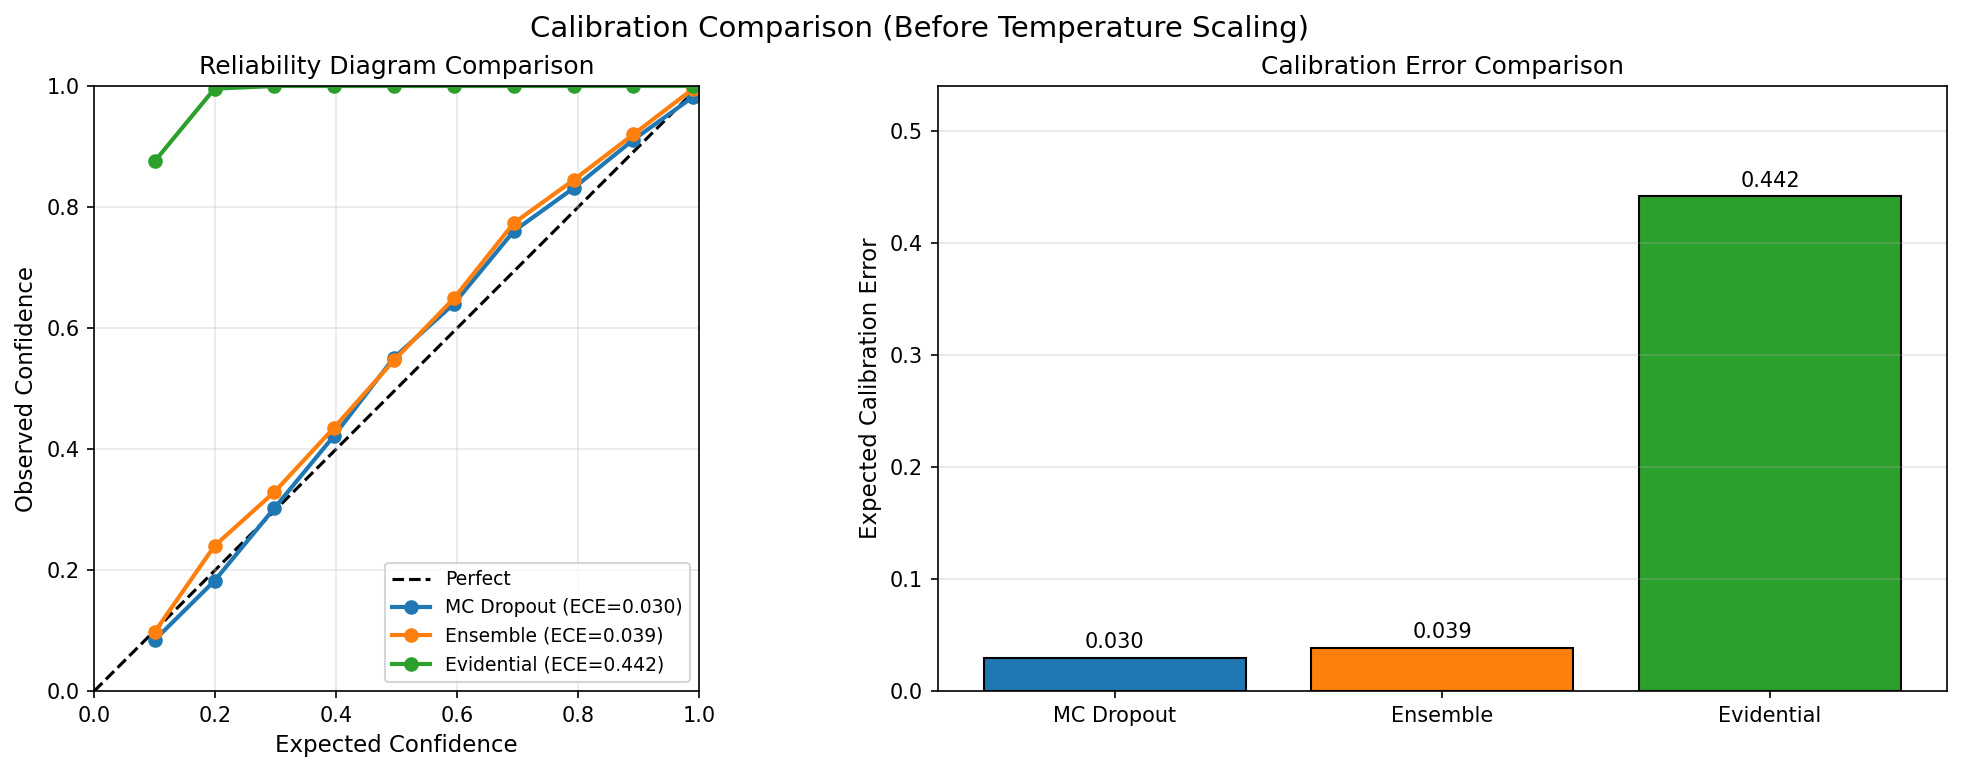
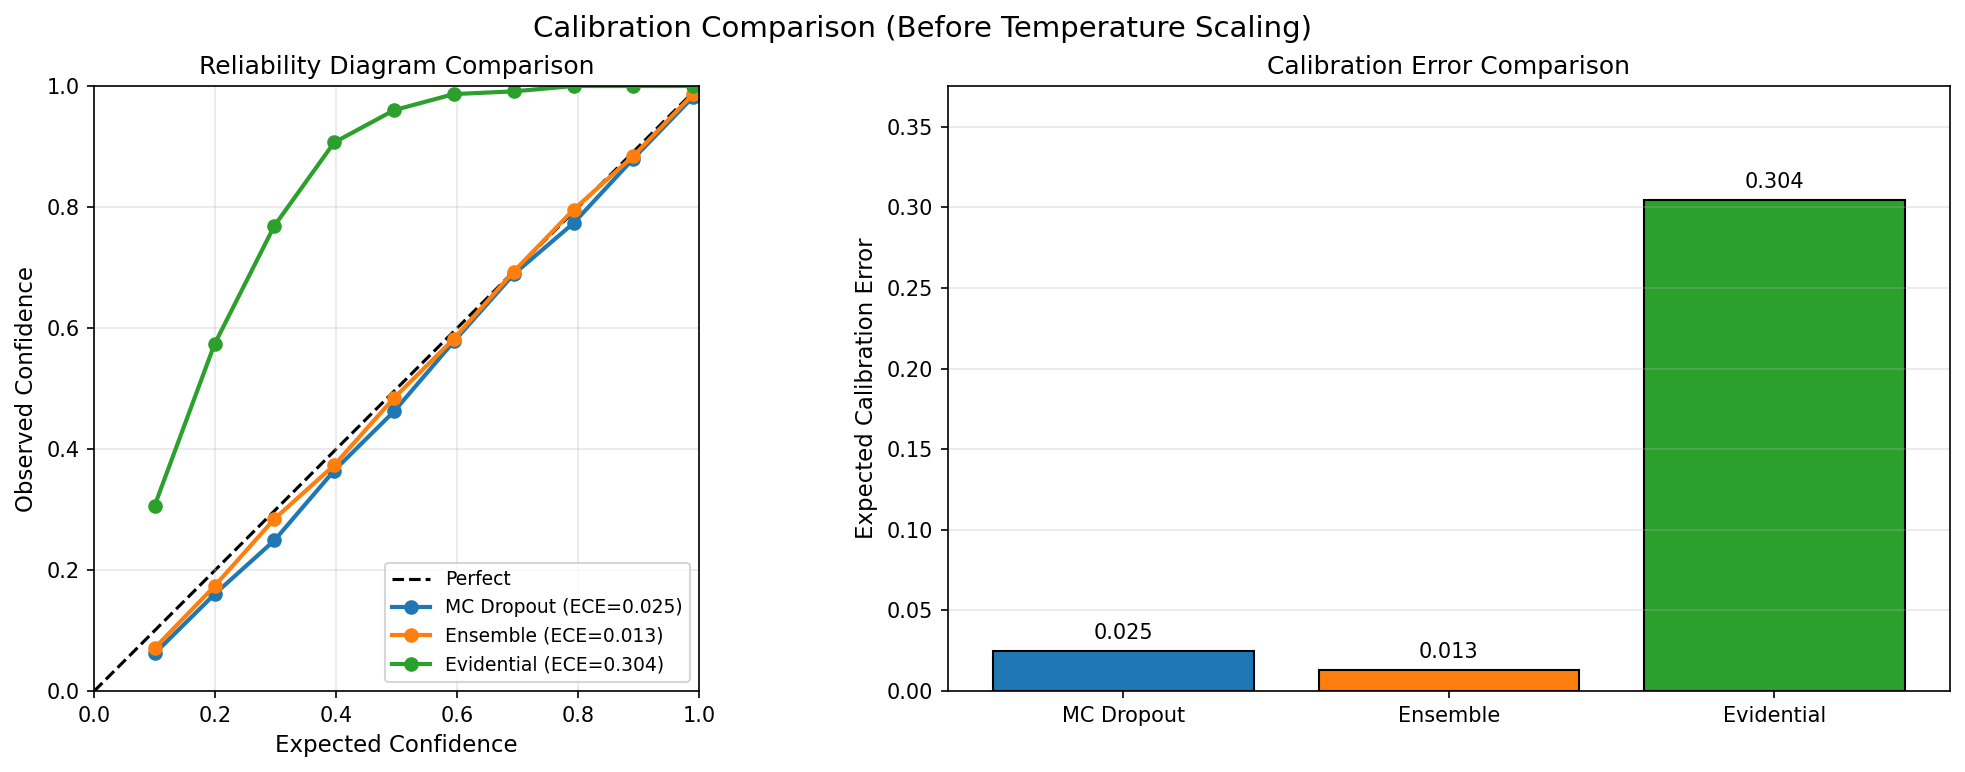
fix: revive dead variance heads and repair the example scripts
Checking every example end to end turned up one regression I introduced and two
pre-existing bugs. All 11 examples now run clean, with no NaN/inf and no model
sitting worse than the mean predictor.

Regression (mine, from the previous commit):
- simple_active_learning.py re-initialized the model each round but still
  trained only 50 epochs, so it never converged. RMSE bounced 2.31/2.15/3.19/
  2.44/... and finished at 2.15 -- worse than the 2.13 mean-predictor baseline.
  Now uses "rich" features and 400 epochs: 1.96 -> 1.19, monotone. It also
  prints the baseline and warns if it fails to beat it.

Dead variance heads (jnp.clip is an absorbing state):
- MPNN/GAT/GraphTransformer bounded log_var with jnp.clip(log_var, -4.6, 4.6).
  A hard clip has exactly zero gradient outside its range, so a saturated
  variance head can never recover. MPNN fell in completely: 100% of molecules
  pinned at exp(4.6)=99.484, var_head gradient exactly 0.0, and mpnn_demo
  printed an identical std dev of 9.974 for every molecule.

  Mechanism: on unnormalized ESOL labels the initial train MSE is ~93, so the
  Gaussian NLL correctly wants a large variance; Adam overshoots raw log_var to
  ~48 within 40 steps. By the time the fit improves and the correct log_var has
  fallen to ~1.7, the head is stuck forever.

  Replaced with a leaky clip in the new molax/models/bounds.py -- identity
  inside the range, small constant slope outside. tanh was tried first and is
[…]

diff --git a/tests/test_log_var_bound.py b/tests/test_log_var_bound.py
@@ -1,0 +1,127 @@
+"""Regression tests for the log-variance bound in the edge-aware models.
+
+MPNN, GAT and GraphTransformer bound `log_var` so predicted variance stays in
+[0.01, 100]. That bound used to be `jnp.clip`, which has *exactly zero*
+gradient outside its range: once the variance head saturated it received no
+gradient and could never recover. In practice MPNN drove 100% of molecules to
+the cap (variance 99.484 for every molecule, var_head gradient 0.0), leaving
+the uncertainty output constant and useless.
+
+The bound is now a leaky clip (see molax/models/bounds.py): identity inside the
+range, small constant slope outside, so a saturated head always recovers.
+"""
+
+import flax.nnx as nnx
+import jax.numpy as jnp
+import pytest
+
+from molax.models.bounds import LOG_VAR_BOUND, LOG_VAR_LEAK, bound_log_var
+from molax.models.gat import GATConfig, UncertaintyGAT
+from molax.models.graph_transformer import (
+    GraphTransformerConfig,
+    UncertaintyGraphTransformer,
+)
+from molax.models.mpnn import MPNNConfig, UncertaintyMPNN
+from molax.utils.data import batch_graphs, smiles_to_jraph
+
+SMILES = ["CCO", "c1ccccc1", "CC(=O)Oc1ccccc1C(=O)O", "CN1C=NC2=C1C(=O)N(C)C(=O)N2C"]
+
+MODELS = [
+    ("mpnn", UncertaintyMPNN, MPNNConfig),
+    ("gat", UncertaintyGAT, GATConfig),
+    ("graph_transformer", UncertaintyGraphTransformer, GraphTransformerConfig),
+]
+
+
+@pytest.fixture
+def graphs():
+    return batch_graphs([smiles_to_jraph(s) for s in SMILES])
+
+
+def _build(model_cls, config_cls):
+    config = config_cls(
+        node_features=6,
+        edge_features=1,
+        hidden_features=[16, 16],
+        out_features=1,
+        dropout_rate=0.1,
+    )
+    return model_cls(config, rngs=nnx.Rngs(0))
+
+
+@pytest.mark.parametrize("name,model_cls,config_cls", MODELS)
+def test_variance_stays_in_range(name, model_cls, config_cls, graphs):
+    """The bound must still hold -- variance in [exp(-B), exp(B)]."""
+    model = _build(model_cls, config_cls)
+    _, var = model(graphs, training=False)
+
+    # The leak allows a small, bounded overshoot beyond exp(+/-LOG_VAR_BOUND);
+    # what matters is that variance stays positive, finite and near the range.
+    assert jnp.all(var > 0.0)
+    assert jnp.all(jnp.isfinite(var))
+    assert jnp.all(var < jnp.exp(LOG_VAR_BOUND) * 10)
+
+
+@pytest.mark.parametrize("name,model_cls,config_cls", MODELS)
+def test_variance_head_gradient_survives_saturation(
+    name, model_cls, config_cls, graphs
+):
+    """A saturated variance head must still receive gradient.
+
+    Drive the head far past the bound by inflating its bias, then check the
+    gradient is non-zero. With the old jnp.clip this was exactly 0.0 and the
+    head was permanently dead.
+    """
+    model = _build(model_cls, config_cls)
+
+    # Push raw log_var to ~10x the bound: deep into saturation.
+    model.var_head.bias[...] = jnp.full_like(
+        model.var_head.bias[...], LOG_VAR_BOUND * 10
+    )
+
+    def loss_fn(model):
+        mean, var = model(graphs, training=False)
+        mean, var = mean.squeeze(-1), var.squeeze(-1)
+        targets = jnp.zeros_like(mean)
+        return jnp.mean(
+            0.5 * (jnp.log(var + 1e-6) + (targets - mean) ** 2 / (var + 1e-6))
+        )
+
+    _, grads = nnx.value_and_grad(loss_fn)(model)
+    grad_magnitude = float(jnp.abs(grads.var_head.kernel[...]).sum())
+
+    assert jnp.isfinite(grad_magnitude)
+    assert grad_magnitude > 0.0, (
+        f"{name}: variance head gradient is exactly zero when saturated -- "
+        "the head can never recover (the jnp.clip regression)"
+    )
+
+
+@pytest.mark.parametrize("name,model_cls,config_cls", MODELS)
+def test_variance_is_not_constant_across_molecules(name, model_cls, config_cls, graphs):
+    """Predicted variance must vary by molecule, not collapse to one value."""
+    model = _build(model_cls, config_cls)
+    _, var = model(graphs, training=False)
+
+    real = var.squeeze(-1)[: len(SMILES)]  # drop the padding graph
+    assert float(jnp.std(real)) > 0.0, (
+        f"{name}: identical predicted variance for every molecule"
+    )
+
+
+def test_bound_is_exact_identity_inside_range():
+    """Well-scaled log_var must pass through completely untouched."""
+    inside = jnp.array([-4.5, -1.0, 0.0, 1.0, 4.5])
+    assert jnp.allclose(bound_log_var(inside), inside)
+
+
+def test_bound_is_monotone_and_leaky_outside_range():
+    """Outside the range the bound must keep a small non-zero slope."""
+    big = jnp.array([LOG_VAR_BOUND * 10])
+    expected = LOG_VAR_BOUND + LOG_VAR_LEAK * (LOG_VAR_BOUND * 10 - LOG_VAR_BOUND)
+    assert jnp.allclose(bound_log_var(big), expected)
+
+    # strictly increasing, so gradient never flips sign
+    xs = jnp.linspace(-50.0, 50.0, 201)
+    ys = bound_log_var(xs)
+    assert jnp.all(jnp.diff(ys) > 0)

diff --git a/examples/simple_active_learning.py b/examples/simple_active_learning.py
@@ -7,6 +7,12 @@ Protocol note: the model is re-initialized at the start of every acquisition
 round. Warm-starting one model across rounds would give later rounds a larger
 cumulative training budget than earlier ones, so the reported RMSE would
 improve partly because of extra gradient steps rather than extra data.
+
+Two consequences of doing that correctly: each round must train to convergence
+from scratch (N_EPOCHS=400, not 50 -- at 50 a fresh model does not even reach
+the mean-predictor baseline), and the "rich" featurizer is required, because
+with the 6-dim default this model plateaus at RMSE ~2.00 no matter how much
+data it is given.
 """
 
 import time
@@ -24,7 +30,8 @@ from molax.utils.data import MolecularDataset
 
 # Configuration
 DATASET_PATH = Path(__file__).parent.parent / "datasets" / "esol.csv"
-N_EPOCHS = 50
+FEATURES = "rich"  # the 6-dim default does not improve with more data
+N_EPOCHS = 400  # a freshly initialized model needs this to converge
 LEARNING_RATE = 1e-3
 INITIAL_POOL_FRACTION = 0.05
 SAMPLES_PER_ITERATION = 50
@@ -36,7 +43,7 @@ print("=" * 60)
 print(f"JAX backend: {jax.default_backend()}")
 
 # Load dataset
-dataset = MolecularDataset(DATASET_PATH)
+dataset = MolecularDataset(DATASET_PATH, features=FEATURES)
 train_data, test_data = dataset.split(test_size=0.2, seed=42)
 print(f"Train: {len(train_data)}, Test: {len(test_data)}")
 
@@ -121,6 +128,13 @@ pool_mask = ~labeled_mask
 
 print(f"\nInitial: {int(labeled_mask.sum())} labeled, {int(pool_mask.sum())} pool")
 
+# The number every iteration has to beat. If RMSE sits above this, the model is
+# not learning and the acquisition strategy is not being tested at all.
+baseline_rmse = float(
+    jnp.sqrt(jnp.mean((all_test_labels - jnp.mean(all_train_labels)) ** 2))
+)
+print(f"Mean-predictor baseline RMSE: {baseline_rmse:.4f}")
+
 # Warmup JIT on a throwaway model so the loop below times cleanly
 print("\nJIT warmup...")
 start = time.time()
@@ -176,3 +190,8 @@ total_time = time.time() - total_start
 print("=" * 60)
 print(f"Total time: {total_time:.1f}s ({total_time / N_ITERATIONS:.1f}s per iteration)")
 print(f"Final: {int(labeled_mask.sum())} labeled, RMSE={float(rmse):.4f}")
+print(f"Baseline (predict training mean): {baseline_rmse:.4f}")
+if float(rmse) < baseline_rmse:
+    print("Model beats the mean predictor.")
+else:
+    print("WARNING: model is no better than predicting the mean.")

diff --git a/molax/models/bounds.py b/molax/models/bounds.py
@@ -1,0 +1,45 @@
+"""Numerical bounds shared by the uncertainty heads.
+
+Predicted variance is produced as ``exp(log_var)``, so an unbounded ``log_var``
+can overflow. The edge-aware models therefore bound it.
+
+The bound must not be a hard clip. ``jnp.clip`` has exactly zero gradient
+outside its range, which makes saturation an absorbing state: once the variance
+head is pushed past the bound it receives no gradient and can never come back.
+This was observed in practice -- training ``UncertaintyMPNN`` on unnormalized
+ESOL labels drove raw ``log_var`` to ~48 within 40 steps (initial MSE is ~93, so
+the Gaussian NLL correctly wants a large variance, and Adam overshoots). By the
+time the fit improved and the correct ``log_var`` had fallen to ~1.7, every
+molecule was pinned at ``exp(4.6) = 99.484`` with a gradient of exactly 0.0.
+
+``tanh`` is not sufficient either: its derivative underflows to zero in float32
+well before ``log_var`` reaches the magnitudes actually seen above.
+
+A leaky clip fixes both. Inside the bound it is the identity, so well-scaled
+models are completely unaffected. Outside, it has a small constant slope, so
+gradient always flows and a saturated head recovers.
+"""
+
+import jax.numpy as jnp
+
+# Bound on |log_var|: variance in [exp(-4.6), exp(4.6)] ~ [0.01, 100].
+LOG_VAR_BOUND = 4.6
+
+# Slope applied beyond the bound. Small enough that variance stays near the
+# range above, non-zero so the gradient never dies.
+LOG_VAR_LEAK = 0.01
+
+
+def bound_log_var(log_var: jnp.ndarray) -> jnp.ndarray:
+    """Softly bound ``log_var`` while keeping the gradient alive everywhere.
+
+    Identity for ``|log_var| <= LOG_VAR_BOUND``; slope ``LOG_VAR_LEAK`` beyond.
+
+    Args:
+        log_var: Raw log-variance predicted by a variance head
+
+    Returns:
+        Bounded log-variance, same shape
+    """
+    clipped = jnp.clip(log_var, -LOG_VAR_BOUND, LOG_VAR_BOUND)
+    return clipped + LOG_VAR_LEAK * (log_var - clipped)

diff --git a/examples/ensemble_active_learning.py b/examples/ensemble_active_learning.py
@@ -45,7 +45,7 @@ print(f"JAX backend: {jax.default_backend()}")
 print(f"Ensemble members: {N_ENSEMBLE_MEMBERS}")
 
 # Load dataset
-dataset = MolecularDataset(DATASET_PATH)
+dataset = MolecularDataset(DATASET_PATH, features="rich")
 train_data, test_data = dataset.split(test_size=0.2, seed=42)
 print(f"Train: {len(train_data)}, Test: {len(test_data)}")
 
@@ -242,11 +242,18 @@ total_gt_epistemic = all(t >= e for t, e in zip(total_uncs, epistemic_uncs))
 status = "PASS" if total_gt_epistemic else "FAIL"
 print(f"[{status}] Total uncertainty >= Epistemic uncertainty")
 
-# 4. Learning is happening (loss should decrease, RMSE should improve from baseline)
-baseline_rmse = 2.5  # Approximate baseline without training
+# 4. Learning is happening: the model must beat the mean predictor.
+# Compute this rather than hardcoding it -- a hardcoded 2.5 would pass a model
+# at RMSE 2.4, which is actually WORSE than predicting the training mean (2.13).
+baseline_rmse = float(
+    jnp.sqrt(jnp.mean((all_test_labels - jnp.mean(all_train_labels)) ** 2))
+)
 learned = final_rmse < baseline_rmse
 status = "PASS" if learned else "FAIL"
-print(f"[{status}] Model learns (RMSE {final_rmse:.4f} < baseline ~{baseline_rmse})")
+print(
+    f"[{status}] Model beats mean predictor "
+    f"(RMSE {final_rmse:.4f} < baseline {baseline_rmse:.4f})"
+)
 
 print("\n" + "=" * 60)
 if rmse_decreasing and epistemic_decreasing and total_gt_epistemic and learned:

diff --git a/molax/models/graph_transformer.py b/molax/models/graph_transformer.py
@@ -14,6 +14,8 @@ import jax.numpy as jnp
 import jraph
 import optax
 
+from .bounds import bound_log_var
+
 
 @dataclass
 class GraphTransformerConfig:
@@ -535,8 +537,9 @@ class UncertaintyGraphTransformer(nnx.Module):
         mean = self.mean_head(pooled)
         log_var = self.var_head(pooled)
 
-        # Clip log_var to prevent variance explosion (variance in range [0.01, 100])
-        log_var = jnp.clip(log_var, -4.6, 4.6)
+        # Keep variance in ~[0.01, 100] without making saturation permanent.
+        # See molax/models/bounds.py for why this is not a plain jnp.clip.
+        log_var = bound_log_var(log_var)
 
         # Return mean and variance (exp for positivity)
         return mean, jnp.exp(log_var)

diff --git a/molax/models/mpnn.py b/molax/models/mpnn.py
@@ -11,6 +11,8 @@ import flax.nnx as nnx
 import jax.numpy as jnp
 import jraph
 
+from .bounds import bound_log_var
+
 
 @dataclass
 class MPNNConfig:
@@ -277,8 +279,9 @@ class UncertaintyMPNN(nnx.Module):
         mean = self.mean_head(pooled)
         log_var = self.var_head(pooled)
 
-        # Clip log_var to prevent variance explosion (variance in range [0.01, 100])
-        log_var = jnp.clip(log_var, -4.6, 4.6)
+        # Keep variance in ~[0.01, 100] without making saturation permanent.
+        # See molax/models/bounds.py for why this is not a plain jnp.clip.
+        log_var = bound_log_var(log_var)
 
         # Return mean and variance (exp for positivity)
         return mean, jnp.exp(log_var)

diff --git a/molax/models/gat.py b/molax/models/gat.py
@@ -11,6 +11,8 @@ import flax.nnx as nnx
 import jax.numpy as jnp
 import jraph
 
+from .bounds import bound_log_var
+
 
 @dataclass
 class GATConfig:
@@ -312,8 +314,9 @@ class UncertaintyGAT(nnx.Module):
         mean = self.mean_head(pooled)
         log_var = self.var_head(pooled)
 
-        # Clip log_var to prevent variance explosion (variance in range [0.01, 100])
-        log_var = jnp.clip(log_var, -4.6, 4.6)
+        # Keep variance in ~[0.01, 100] without making saturation permanent.
+        # See molax/models/bounds.py for why this is not a plain jnp.clip.
+        log_var = bound_log_var(log_var)
 
         # Return mean and variance (exp for positivity)
         return mean, jnp.exp(log_var)

diff --git a/examples/calibration_comparison.py b/examples/calibration_comparison.py
@@ -202,7 +202,7 @@ def main():
         print("Dataset not found. Run: python scripts/download_esol.py")
         return
 
-    dataset = MolecularDataset(DATASET_PATH)
+    dataset = MolecularDataset(DATASET_PATH, features="rich")
     train_data, test_data = dataset.split(test_size=0.2, seed=SEED)
     train_data, val_data = train_data.split(test_size=0.2, seed=SEED)
 

diff --git a/examples/gat_demo.py b/examples/gat_demo.py
@@ -40,7 +40,7 @@ print("=" * 60)
 
 # Load dataset
 print("\nLoading ESOL dataset...")
-dataset = MolecularDataset(DATASET_PATH)
+dataset = MolecularDataset(DATASET_PATH, features="rich")
 train_data, test_data = dataset.split(test_size=0.2, seed=42)
 print(f"Train: {len(train_data)} molecules, Test: {len(test_data)} molecules")
 

diff --git a/examples/graph_transformer_demo.py b/examples/graph_transformer_demo.py
@@ -47,7 +47,7 @@ print("=" * 60)
 
 # Load dataset
 print("\nLoading ESOL dataset...")
-dataset = MolecularDataset(DATASET_PATH)
+dataset = MolecularDataset(DATASET_PATH, features="rich")
 train_data, test_data = dataset.split(test_size=0.2, seed=42)
 print(f"Train: {len(train_data)} molecules, Test: {len(test_data)} molecules")
 

diff --git a/examples/mpnn_demo.py b/examples/mpnn_demo.py
@@ -33,7 +33,7 @@ print("=" * 60)
 
 # Load dataset
 print("\nLoading ESOL dataset...")
-dataset = MolecularDataset(DATASET_PATH)
+dataset = MolecularDataset(DATASET_PATH, features="rich")
 train_data, test_data = dataset.split(test_size=0.2, seed=42)
 print(f"Train: {len(train_data)} molecules, Test: {len(test_data)} molecules")
 

diff --git a/examples/evidential_active_learning.py b/examples/evidential_active_learning.py
@@ -46,7 +46,7 @@ print("=" * 60)
 print(f"JAX backend: {jax.default_backend()}")
 
 # Load dataset
-dataset = MolecularDataset(DATASET_PATH)
+dataset = MolecularDataset(DATASET_PATH, features="rich")
 train_data, test_data = dataset.split(test_size=0.2, seed=42)
 print(f"Train: {len(train_data)}, Test: {len(test_data)}")
 
